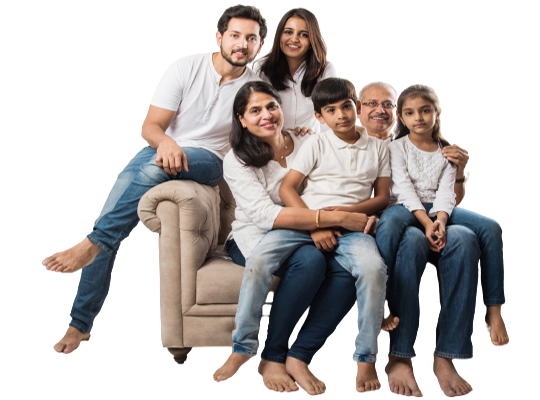
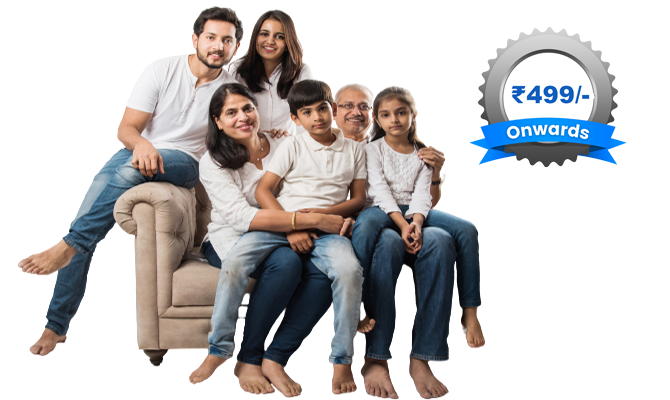
design

diff --git a/plans/startassure-elite.html b/plans/startassure-elite.html
@@ -95,7 +95,7 @@
   <section>
      <div class="container">
             <div class="row  px-3 px-md-0">
-             <div class="col-12 col-md-6 col-sm-12 col-lg-6 col-xl-6 col-xxl-6 banner">
+             <div class="col-12 col-md-6 col-sm-12 col-lg-5 col-xl-5 col-xxl-5 banner">
          <p class="pl-2 thead1 pb-3">Jab <b><span style="color:#0f5fc2;"> HEALTH </span></b> Rahe Sahi, <br> Toh Aap Rahe <b><span style="color:#0f5fc2;"> CAREFREE! </span></b> </p>
          <p class="thead1 pl-2" style="font-size:18px;margin-bottom:1px;">Secure Your Family's Daily Health Needs with </p>
 
@@ -106,13 +106,13 @@
       <a href="#benefits"><p class="pl-3 pt-1 text-primary" style="font-size:16px;"><b> Explore Benefits <i class="fa fa-chevron-right" aria-hidden="true"></i> </b> </p></a>
   </div>
 
-  <div class="col-md-4 col-lg-4 col-xl-4 col-xxl-4 col-sm-12 mt-n3">
+  <!-- <div class="col-md-4 col-lg-4 col-xl-4 col-xxl-4 col-sm-12 mt-n3">
     <img src="images/offer.png" class="img-fluid">
-      </div>
+      </div> -->
 </div>
 
  </div>
-<div class="col-12 col-md-6 col-sm-12 col-lg-6 col-xl-6 col-xxl-6 pb-4 banner1 mob">
+<div class="col-12 col-md-6 col-sm-12 col-lg-7 col-xl-7 col-xxl-7 pb-4 banner1 mob">
     <img src="images/main-doctor.png" class="img-fluid">
  </div>
 </div>
@@ -493,7 +493,7 @@
            </div> 
             <ul class="pt-3">
                 <p class="pl-2"><b> Plan benefits :</b></p>
-                   <li> 24x7 Doctor Consults </li>
+                   <li><b> Free</b> 24x7 Doctor Consults </li>
                 <li><b> ₹ 2000</b> Free Lab  Test & Scans </li>
                 <li><b> Free</b> 1:1 Sessions with Wellness Coaches </li>
                  <li> <b> Free :</b> Care Team To Co-ordinate All Appointments & Get upto 50% Discounts </li>
